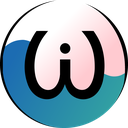
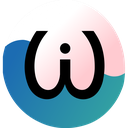
fix: drop circular clip — resize PNG directly, no black edge
The Python ellipse mask was bleeding black background pixels into edges
via LANCZOS averaging. Source PNG already has transparent corners so no
clip needed; CSS border-radius handles the circle shape.

New logo filename inkwave-logo-v5.png guarantees a full cache miss.
Favicon bumped to v=7.

diff --git a/app/root.tsx b/app/root.tsx
@@ -9,11 +9,11 @@ import { FONT_PRELOAD } from './fontPreload'
 import '../src/styles/index.css'
 
 export const links: LinksFunction = () => [
-  { rel: 'icon', type: 'image/png', sizes: '32x32', href: '/fav-32.png?v=6' },
-  { rel: 'icon', type: 'image/png', sizes: '16x16', href: '/fav-16.png?v=6' },
-  { rel: 'icon', type: 'image/png', sizes: '128x128', href: '/fav-128.png?v=6' },
-  { rel: 'shortcut icon', href: '/fav-32.png?v=6' },
-  { rel: 'apple-touch-icon', sizes: '180x180', href: '/apple-touch-icon.png?v=6' },
+  { rel: 'icon', type: 'image/png', sizes: '32x32', href: '/fav-32.png?v=7' },
+  { rel: 'icon', type: 'image/png', sizes: '16x16', href: '/fav-16.png?v=7' },
+  { rel: 'icon', type: 'image/png', sizes: '128x128', href: '/fav-128.png?v=7' },
+  { rel: 'shortcut icon', href: '/fav-32.png?v=7' },
+  { rel: 'apple-touch-icon', sizes: '180x180', href: '/apple-touch-icon.png?v=7' },
   { rel: 'manifest', href: '/manifest.webmanifest' },
   // Fonts: SELF-HOSTED (public/fonts/inkwave-fonts.css → /fonts/*.woff2), not Google Fonts. Same-origin
   // so the calm serif identity is deterministic everywhere — including the server-side PDF/print render,

diff --git a/src/routes/Verify.tsx b/src/routes/Verify.tsx
@@ -53,7 +53,7 @@ export function Verify() {
     <div className="min-h-screen flex flex-col items-center px-4 py-10 font-serif" style={{ color: '#3a3a3a' }}>
       <div className="w-full max-w-3xl">
         <div className="flex items-start gap-4 mb-5">
-          <img src="/inkwave-logo-colour-512.png?v=4" alt="Inkwave" width={72} height={72} style={{ borderRadius: '50%' }} />
+          <img src="/inkwave-logo-v5.png" alt="Inkwave" width={72} height={72} style={{ borderRadius: '50%' }} />
           <div>
             <h1 className="text-2xl mb-1" style={{ color: INK }}>Verify an Inkwave record</h1>
             <p className="text-sm text-stone-500">

diff --git a/src/routes/About.tsx b/src/routes/About.tsx
@@ -9,7 +9,7 @@ const LIGHT = '#9b5ccc'
 function AppIcon({ size }: { size: number }) {
   return (
     <img
-      src="/inkwave-logo-colour-512.png?v=4"
+      src="/inkwave-logo-v5.png"
       width={size} height={size}
       alt="Inkwave logo"
       style={{ display: 'block', borderRadius: '50%', boxShadow: '0 2px 12px rgba(0,0,0,0.25)' }}

diff --git a/src/editor/Scroll.tsx b/src/editor/Scroll.tsx
@@ -172,7 +172,7 @@ function PageGuides({ sheetRef }: { sheetRef: RefObject<HTMLDivElement> }) {
         return (
           <img
             key={`logo-${n}`}
-            src="/inkwave-logo-colour-512.png?v=4"
+            src="/inkwave-logo-v5.png"
             width={logoSize}
             height={logoSize}
             alt=""
